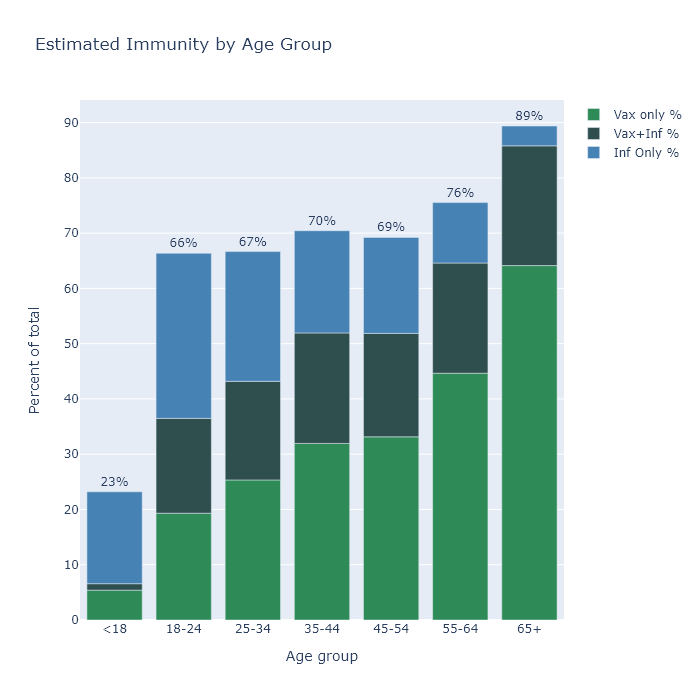
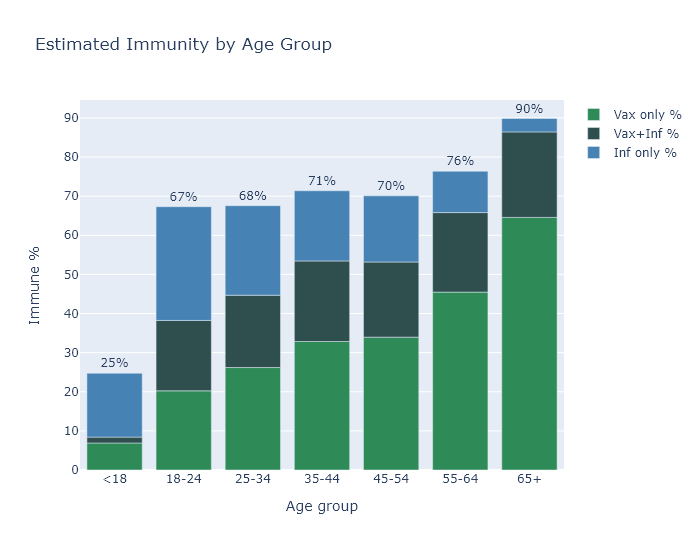
Immunity work

diff --git a/docs/assets/plotly/Immune-Age.html b/docs/assets/plotly/Immune-Age.html
@@ -2,6 +2,6 @@
 <head><meta charset="utf-8" /></head>
 <body>
     <div>                        <script type="text/javascript">window.PlotlyConfig = {MathJaxConfig: 'local'};</script>
-        <script src="https://cdn.plot.ly/plotly-latest.min.js"></script>                <div id="b234c150-d046-4712-80d0-b249274c89f9" class="plotly-graph-div" style="height:700px; width:700px;"></div>            <script type="text/javascript">                                    window.PLOTLYENV=window.PLOTLYENV || {};                                    if (document.getElementById("b234c150-d046-4712-80d0-b249274c89f9")) {                    Plotly.newPlot(                        "b234c150-d046-4712-80d0-b249274c89f9",                        [{"alignmentgroup": "True", "hovertemplate": "=Vax only %<br>Age group=%{x}<br>Percent of total=%{y}<br>Label=%{text}<extra></extra>", "legendgroup": "Vax only %", "marker": {"color": "seagreen"}, "name": "Vax only %", "offsetgroup": "Vax only %", "orientation": "v", "showlegend": true, "text": ["", "", "", "", "", "", ""], "textposition": "outside", "type": "bar", "x": ["<18", "18-24", "25-34", "35-44", "45-54", "55-64", "65+"], "xaxis": "x", "y": [5.399410109253805, 19.325796398050556, 25.34057723824802, 31.944734714497933, 33.14435045495925, 44.65150184121229, 64.12566165815878], "yaxis": "y"}, {"alignmentgroup": "True", "hovertemplate": "=Vax+Inf %<br>Age group=%{x}<br>Percent of total=%{y}<br>Label=%{text}<extra></extra>", "legendgroup": "Vax+Inf %", "marker": {"color": "darkslategray"}, "name": "Vax+Inf %", "offsetgroup": "Vax+Inf %", "orientation": "v", "showlegend": true, "text": ["", "", "", "", "", "", ""], "textposition": "outside", "type": "bar", "x": ["<18", "18-24", "25-34", "35-44", "45-54", "55-64", "65+"], "xaxis": "x", "y": [1.169030372532977, 17.159043871089423, 17.846914998317292, 19.99304495491905, 18.71438408399059, 19.938813500587536, 21.671920770183146], "yaxis": "y"}, {"alignmentgroup": "True", "hovertemplate": "=Inf Only %<br>Age group=%{x}<br>Percent of total=%{y}<br>Label=%{text}<extra></extra>", "legendgroup": "Inf Only %", "marker": {"color": "steelblue"}, "name": "Inf Only %", "offsetgroup": "Inf Only %", "orientation": "v", "showlegend": true, "text": ["23%", "66%", "67%", "70%", "69%", "76%", "89%"], "textposition": "outside", "type": "bar", "x": ["<18", "18-24", "25-34", "35-44", "45-54", "55-64", "65+"], "xaxis": "x", "y": [16.628655025919034, 29.871568691583846, 23.47735291832489, 18.501178483538304, 17.372852232843687, 10.930850775047407, 3.5874398747202427], "yaxis": "y"}],                        {"barmode": "relative", "height": 700, "legend": {"title": {"text": ""}, "tracegroupgap": 0}, "showlegend": true, "template": {"data": {"bar": [{"error_x": {"color": "#2a3f5f"}, "error_y": {"color": "#2a3f5f"}, "marker": {"line": {"color": "#E5ECF6", "width": 0.5}}, "type": "bar"}], "barpolar": [{"marker": {"line": {"color": "#E5ECF6", "width": 0.5}}, "type": "barpolar"}], "carpet": [{"aaxis": {"endlinecolor": "#2a3f5f", "gridcolor": "white", "linecolor": "white", "minorgridcolor": "white", "startlinecolor": "#2a3f5f"}, "baxis": {"endlinecolor": "#2a3f5f", "gridcolor": "white", "linecolor": "white", "minorgridcolor": "white", "startlinecolor": "#2a3f5f"}, "type": "carpet"}], "choropleth": [{"colorbar": {"outlinewidth": 0, "ticks": ""}, "type": "choropleth"}], "contour": [{"colorbar": {"outlinewidth": 0, "ticks": ""}, "colorscale": [[0.0, "#0d0887"], [0.1111111111111111, "#46039f"], [0.2222222222222222, "#7201a8"], [0.3333333333333333, "#9c179e"], [0.4444444444444444, "#bd3786"], [0.5555555555555556, "#d8576b"], [0.6666666666666666, "#ed7953"], [0.7777777777777778, "#fb9f3a"], [0.8888888888888888, "#fdca26"], [1.0, "#f0f921"]], "type": "contour"}], "contourcarpet": [{"colorbar": {"outlinewidth": 0, "ticks": ""}, "type": "contourcarpet"}], "heatmap": [{"colorbar": {"outlinewidth": 0, "ticks": ""}, "colorscale": [[0.0, "#0d0887"], [0.1111111111111111, "#46039f"], [0.2222222222222222, "#7201a8"], [0.3333333333333333, "#9c179e"], [0.4444444444444444, "#bd3786"], [0.5555555555555556, "#d8576b"], [0.6666666666666666, "#ed7953"], [0.7777777777777778, "#fb9f3a"], [0.8888888888888888, "#fdca26"], [1.0, "#f0f921"]], "type": "heatmap"}], "heatmapgl": [{"colorbar": {"outlinewidth": 0, "ticks": ""}, "colorscale": [[0.0, "#0d0887"], [0.1111111111111111, "#46039f"], [0.2222222222222222, "#7201a8"], [0.3333333333333333, "#9c179e"], [0.4444444444444444, "#bd3786"], [0.5555555555555556, "#d8576b"], [0.6666666666666666, "#ed7953"], [0.7777777777777778, "#fb9f3a"], [0.8888888888888888, "#fdca26"], [1.0, "#f0f921"]], "type": "heatmapgl"}], "histogram": [{"marker": {"colorbar": {"outlinewidth": 0, "ticks": ""}}, "type": "histogram"}], "histogram2d": [{"colorbar": {"outlinewidth": 0, "ticks": ""}, "colorscale": [[0.0, "#0d0887"], [0.1111111111111111, "#46039f"], [0.2222222222222222, "#7201a8"], [0.3333333333333333, "#9c179e"], [0.4444444444444444, "#bd3786"], [0.5555555555555556, "#d8576b"], [0.6666666666666666, "#ed7953"], [0.7777777777777778, "#fb9f3a"], [0.8888888888888888, "#fdca26"], [1.0, "#f0f921"]], "type": "histogram2d"}], "histogram2dcontour": [{"colorbar": {"outlinewidth": 0, "ticks": ""}, "colorscale": [[0.0, "#0d0887"], [0.1111111111111111, "#46039f"], [0.2222222222222222, "#7201a8"], [0.3333333333333333, "#9c179e"], [0.4444444444444444, "#bd3786"], [0.5555555555555556, "#d8576b"], [0.6666666666666666, "#ed7953"], [0.7777777777777778, "#fb9f3a"], [0.8888888888888888, "#fdca26"], [1.0, "#f0f921"]], "type": "histogram2dcontour"}], "mesh3d": [{"colorbar": {"outlinewidth": 0, "ticks": ""}, "type": "mesh3d"}], "parcoords": [{"line": {"colorbar": {"outlinewidth": 0, "ticks": ""}}, "type": "parcoords"}], "pie": [{"automargin": true, "type": "pie"}], "scatter": [{"marker": {"colorbar": {"outlinewidth": 0, "ticks": ""}}, "type": "scatter"}], "scatter3d": [{"line": {"colorbar": {"outlinewidth": 0, "ticks": ""}}, "marker": {"colorbar": {"outlinewidth": 0, "ticks": ""}}, "type": "scatter3d"}], "scattercarpet": [{"marker": {"colorbar": {"outlinewidth": 0, "ticks": ""}}, "type": "scattercarpet"}], "scattergeo": [{"marker": {"colorbar": {"outlinewidth": 0, "ticks": ""}}, "type": "scattergeo"}], "scattergl": [{"marker": {"colorbar": {"outlinewidth": 0, "ticks": ""}}, "type": "scattergl"}], "scattermapbox": [{"marker": {"colorbar": {"outlinewidth": 0, "ticks": ""}}, "type": "scattermapbox"}], "scatterpolar": [{"marker": {"colorbar": {"outlinewidth": 0, "ticks": ""}}, "type": "scatterpolar"}], "scatterpolargl": [{"marker": {"colorbar": {"outlinewidth": 0, "ticks": ""}}, "type": "scatterpolargl"}], "scatterternary": [{"marker": {"colorbar": {"outlinewidth": 0, "ticks": ""}}, "type": "scatterternary"}], "surface": [{"colorbar": {"outlinewidth": 0, "ticks": ""}, "colorscale": [[0.0, "#0d0887"], [0.1111111111111111, "#46039f"], [0.2222222222222222, "#7201a8"], [0.3333333333333333, "#9c179e"], [0.4444444444444444, "#bd3786"], [0.5555555555555556, "#d8576b"], [0.6666666666666666, "#ed7953"], [0.7777777777777778, "#fb9f3a"], [0.8888888888888888, "#fdca26"], [1.0, "#f0f921"]], "type": "surface"}], "table": [{"cells": {"fill": {"color": "#EBF0F8"}, "line": {"color": "white"}}, "header": {"fill": {"color": "#C8D4E3"}, "line": {"color": "white"}}, "type": "table"}]}, "layout": {"annotationdefaults": {"arrowcolor": "#2a3f5f", "arrowhead": 0, "arrowwidth": 1}, "autotypenumbers": "strict", "coloraxis": {"colorbar": {"outlinewidth": 0, "ticks": ""}}, "colorscale": {"diverging": [[0, "#8e0152"], [0.1, "#c51b7d"], [0.2, "#de77ae"], [0.3, "#f1b6da"], [0.4, "#fde0ef"], [0.5, "#f7f7f7"], [0.6, "#e6f5d0"], [0.7, "#b8e186"], [0.8, "#7fbc41"], [0.9, "#4d9221"], [1, "#276419"]], "sequential": [[0.0, "#0d0887"], [0.1111111111111111, "#46039f"], [0.2222222222222222, "#7201a8"], [0.3333333333333333, "#9c179e"], [0.4444444444444444, "#bd3786"], [0.5555555555555556, "#d8576b"], [0.6666666666666666, "#ed7953"], [0.7777777777777778, "#fb9f3a"], [0.8888888888888888, "#fdca26"], [1.0, "#f0f921"]], "sequentialminus": [[0.0, "#0d0887"], [0.1111111111111111, "#46039f"], [0.2222222222222222, "#7201a8"], [0.3333333333333333, "#9c179e"], [0.4444444444444444, "#bd3786"], [0.5555555555555556, "#d8576b"], [0.6666666666666666, "#ed7953"], [0.7777777777777778, "#fb9f3a"], [0.8888888888888888, "#fdca26"], [1.0, "#f0f921"]]}, "colorway": ["#636efa", "#EF553B", "#00cc96", "#ab63fa", "#FFA15A", "#19d3f3", "#FF6692", "#B6E880", "#FF97FF", "#FECB52"], "font": {"color": "#2a3f5f"}, "geo": {"bgcolor": "white", "lakecolor": "white", "landcolor": "#E5ECF6", "showlakes": true, "showland": true, "subunitcolor": "white"}, "hoverlabel": {"align": "left"}, "hovermode": "closest", "mapbox": {"style": "light"}, "paper_bgcolor": "white", "plot_bgcolor": "#E5ECF6", "polar": {"angularaxis": {"gridcolor": "white", "linecolor": "white", "ticks": ""}, "bgcolor": "#E5ECF6", "radialaxis": {"gridcolor": "white", "linecolor": "white", "ticks": ""}}, "scene": {"xaxis": {"backgroundcolor": "#E5ECF6", "gridcolor": "white", "gridwidth": 2, "linecolor": "white", "showbackground": true, "ticks": "", "zerolinecolor": "white"}, "yaxis": {"backgroundcolor": "#E5ECF6", "gridcolor": "white", "gridwidth": 2, "linecolor": "white", "showbackground": true, "ticks": "", "zerolinecolor": "white"}, "zaxis": {"backgroundcolor": "#E5ECF6", "gridcolor": "white", "gridwidth": 2, "linecolor": "white", "showbackground": true, "ticks": "", "zerolinecolor": "white"}}, "shapedefaults": {"line": {"color": "#2a3f5f"}}, "ternary": {"aaxis": {"gridcolor": "white", "linecolor": "white", "ticks": ""}, "baxis": {"gridcolor": "white", "linecolor": "white", "ticks": ""}, "bgcolor": "#E5ECF6", "caxis": {"gridcolor": "white", "linecolor": "white", "ticks": ""}}, "title": {"x": 0.05}, "xaxis": {"automargin": true, "gridcolor": "white", "linecolor": "white", "ticks": "", "title": {"standoff": 15}, "zerolinecolor": "white", "zerolinewidth": 2}, "yaxis": {"automargin": true, "gridcolor": "white", "linecolor": "white", "ticks": "", "title": {"standoff": 15}, "zerolinecolor": "white", "zerolinewidth": 2}}}, "title": {"text": "Estimated Immunity by Age Group"}, "width": 700, "xaxis": {"anchor": "y", "domain": [0.0, 1.0], "title": {"text": "Age group"}}, "yaxis": {"anchor": "x", "domain": [0.0, 1.0], "title": {"text": "Percent of total"}}},                        {"responsive": true}                    )                };                            </script>        </div>
+        <script src="https://cdn.plot.ly/plotly-latest.min.js"></script>                <div id="95db07be-aece-472d-8cbe-596c9809e802" class="plotly-graph-div" style="height:700px; width:700px;"></div>            <script type="text/javascript">                                    window.PLOTLYENV=window.PLOTLYENV || {};                                    if (document.getElementById("95db07be-aece-472d-8cbe-596c9809e802")) {                    Plotly.newPlot(                        "95db07be-aece-472d-8cbe-596c9809e802",                        [{"alignmentgroup": "True", "hovertemplate": "=Vax only %<br>Age group=%{x}<br>Immune %=%{y}<br>ImmuneLabel=%{text}<extra></extra>", "legendgroup": "Vax only %", "marker": {"color": "seagreen"}, "name": "Vax only %", "offsetgroup": "Vax only %", "orientation": "v", "showlegend": true, "text": ["", "", "", "", "", "", ""], "textposition": "outside", "type": "bar", "x": ["<18", "18-24", "25-34", "35-44", "45-54", "55-64", "65+"], "xaxis": "x", "y": [6.907183539343292, 20.240021058895717, 26.1978733093339, 32.851289899038214, 33.960706022668155, 45.47216891829578, 64.5728785954162], "yaxis": "y"}, {"alignmentgroup": "True", "hovertemplate": "=Vax+Inf %<br>Age group=%{x}<br>Immune %=%{y}<br>ImmuneLabel=%{text}<extra></extra>", "legendgroup": "Vax+Inf %", "marker": {"color": "darkslategray"}, "name": "Vax+Inf %", "offsetgroup": "Vax+Inf %", "orientation": "v", "showlegend": true, "text": ["", "", "", "", "", "", ""], "textposition": "outside", "type": "bar", "x": ["<18", "18-24", "25-34", "35-44", "45-54", "55-64", "65+"], "xaxis": "x", "y": [1.4983009437703996, 18.000127543287608, 18.48156338267178, 20.590580995632372, 19.207309509279547, 20.33081105191417, 21.849596743395228], "yaxis": "y"}, {"alignmentgroup": "True", "hovertemplate": "=Inf only %<br>Age group=%{x}<br>Immune %=%{y}<br>ImmuneLabel=%{text}<extra></extra>", "legendgroup": "Inf only %", "marker": {"color": "steelblue"}, "name": "Inf only %", "offsetgroup": "Inf only %", "orientation": "v", "showlegend": true, "text": ["25%", "67%", "68%", "71%", "70%", "76%", "90%"], "textposition": "outside", "type": "bar", "x": ["<18", "18-24", "25-34", "35-44", "45-54", "55-64", "65+"], "xaxis": "x", "y": [16.326976668488967, 29.071152776632196, 22.883245019173213, 17.938348944366673, 16.91837492168858, 10.565678835197707, 3.4327116581355996], "yaxis": "y"}],                        {"barmode": "relative", "height": 700, "legend": {"title": {"text": ""}, "tracegroupgap": 0}, "showlegend": true, "template": {"data": {"bar": [{"error_x": {"color": "#2a3f5f"}, "error_y": {"color": "#2a3f5f"}, "marker": {"line": {"color": "#E5ECF6", "width": 0.5}}, "type": "bar"}], "barpolar": [{"marker": {"line": {"color": "#E5ECF6", "width": 0.5}}, "type": "barpolar"}], "carpet": [{"aaxis": {"endlinecolor": "#2a3f5f", "gridcolor": "white", "linecolor": "white", "minorgridcolor": "white", "startlinecolor": "#2a3f5f"}, "baxis": {"endlinecolor": "#2a3f5f", "gridcolor": "white", "linecolor": "white", "minorgridcolor": "white", "startlinecolor": "#2a3f5f"}, "type": "carpet"}], "choropleth": [{"colorbar": {"outlinewidth": 0, "ticks": ""}, "type": "choropleth"}], "contour": [{"colorbar": {"outlinewidth": 0, "ticks": ""}, "colorscale": [[0.0, "#0d0887"], [0.1111111111111111, "#46039f"], [0.2222222222222222, "#7201a8"], [0.3333333333333333, "#9c179e"], [0.4444444444444444, "#bd3786"], [0.5555555555555556, "#d8576b"], [0.6666666666666666, "#ed7953"], [0.7777777777777778, "#fb9f3a"], [0.8888888888888888, "#fdca26"], [1.0, "#f0f921"]], "type": "contour"}], "contourcarpet": [{"colorbar": {"outlinewidth": 0, "ticks": ""}, "type": "contourcarpet"}], "heatmap": [{"colorbar": {"outlinewidth": 0, "ticks": ""}, "colorscale": [[0.0, "#0d0887"], [0.1111111111111111, "#46039f"], [0.2222222222222222, "#7201a8"], [0.3333333333333333, "#9c179e"], [0.4444444444444444, "#bd3786"], [0.5555555555555556, "#d8576b"], [0.6666666666666666, "#ed7953"], [0.7777777777777778, "#fb9f3a"], [0.8888888888888888, "#fdca26"], [1.0, "#f0f921"]], "type": "heatmap"}], "heatmapgl": [{"colorbar": {"outlinewidth": 0, "ticks": ""}, "colorscale": [[0.0, "#0d0887"], [0.1111111111111111, "#46039f"], [0.2222222222222222, "#7201a8"], [0.3333333333333333, "#9c179e"], [0.4444444444444444, "#bd3786"], [0.5555555555555556, "#d8576b"], [0.6666666666666666, "#ed7953"], [0.7777777777777778, "#fb9f3a"], [0.8888888888888888, "#fdca26"], [1.0, "#f0f921"]], "type": "heatmapgl"}], "histogram": [{"marker": {"colorbar": {"outlinewidth": 0, "ticks": ""}}, "type": "histogram"}], "histogram2d": [{"colorbar": {"outlinewidth": 0, "ticks": ""}, "colorscale": [[0.0, "#0d0887"], [0.1111111111111111, "#46039f"], [0.2222222222222222, "#7201a8"], [0.3333333333333333, "#9c179e"], [0.4444444444444444, "#bd3786"], [0.5555555555555556, "#d8576b"], [0.6666666666666666, "#ed7953"], [0.7777777777777778, "#fb9f3a"], [0.8888888888888888, "#fdca26"], [1.0, "#f0f921"]], "type": "histogram2d"}], "histogram2dcontour": [{"colorbar": {"outlinewidth": 0, "ticks": ""}, "colorscale": [[0.0, "#0d0887"], [0.1111111111111111, "#46039f"], [0.2222222222222222, "#7201a8"], [0.3333333333333333, "#9c179e"], [0.4444444444444444, "#bd3786"], [0.5555555555555556, "#d8576b"], [0.6666666666666666, "#ed7953"], [0.7777777777777778, "#fb9f3a"], [0.8888888888888888, "#fdca26"], [1.0, "#f0f921"]], "type": "histogram2dcontour"}], "mesh3d": [{"colorbar": {"outlinewidth": 0, "ticks": ""}, "type": "mesh3d"}], "parcoords": [{"line": {"colorbar": {"outlinewidth": 0, "ticks": ""}}, "type": "parcoords"}], "pie": [{"automargin": true, "type": "pie"}], "scatter": [{"marker": {"colorbar": {"outlinewidth": 0, "ticks": ""}}, "type": "scatter"}], "scatter3d": [{"line": {"colorbar": {"outlinewidth": 0, "ticks": ""}}, "marker": {"colorbar": {"outlinewidth": 0, "ticks": ""}}, "type": "scatter3d"}], "scattercarpet": [{"marker": {"colorbar": {"outlinewidth": 0, "ticks": ""}}, "type": "scattercarpet"}], "scattergeo": [{"marker": {"colorbar": {"outlinewidth": 0, "ticks": ""}}, "type": "scattergeo"}], "scattergl": [{"marker": {"colorbar": {"outlinewidth": 0, "ticks": ""}}, "type": "scattergl"}], "scattermapbox": [{"marker": {"colorbar": {"outlinewidth": 0, "ticks": ""}}, "type": "scattermapbox"}], "scatterpolar": [{"marker": {"colorbar": {"outlinewidth": 0, "ticks": ""}}, "type": "scatterpolar"}], "scatterpolargl": [{"marker": {"colorbar": {"outlinewidth": 0, "ticks": ""}}, "type": "scatterpolargl"}], "scatterternary": [{"marker": {"colorbar": {"outlinewidth": 0, "ticks": ""}}, "type": "scatterternary"}], "surface": [{"colorbar": {"outlinewidth": 0, "ticks": ""}, "colorscale": [[0.0, "#0d0887"], [0.1111111111111111, "#46039f"], [0.2222222222222222, "#7201a8"], [0.3333333333333333, "#9c179e"], [0.4444444444444444, "#bd3786"], [0.5555555555555556, "#d8576b"], [0.6666666666666666, "#ed7953"], [0.7777777777777778, "#fb9f3a"], [0.8888888888888888, "#fdca26"], [1.0, "#f0f921"]], "type": "surface"}], "table": [{"cells": {"fill": {"color": "#EBF0F8"}, "line": {"color": "white"}}, "header": {"fill": {"color": "#C8D4E3"}, "line": {"color": "white"}}, "type": "table"}]}, "layout": {"annotationdefaults": {"arrowcolor": "#2a3f5f", "arrowhead": 0, "arrowwidth": 1}, "autotypenumbers": "strict", "coloraxis": {"colorbar": {"outlinewidth": 0, "ticks": ""}}, "colorscale": {"diverging": [[0, "#8e0152"], [0.1, "#c51b7d"], [0.2, "#de77ae"], [0.3, "#f1b6da"], [0.4, "#fde0ef"], [0.5, "#f7f7f7"], [0.6, "#e6f5d0"], [0.7, "#b8e186"], [0.8, "#7fbc41"], [0.9, "#4d9221"], [1, "#276419"]], "sequential": [[0.0, "#0d0887"], [0.1111111111111111, "#46039f"], [0.2222222222222222, "#7201a8"], [0.3333333333333333, "#9c179e"], [0.4444444444444444, "#bd3786"], [0.5555555555555556, "#d8576b"], [0.6666666666666666, "#ed7953"], [0.7777777777777778, "#fb9f3a"], [0.8888888888888888, "#fdca26"], [1.0, "#f0f921"]], "sequentialminus": [[0.0, "#0d0887"], [0.1111111111111111, "#46039f"], [0.2222222222222222, "#7201a8"], [0.3333333333333333, "#9c179e"], [0.4444444444444444, "#bd3786"], [0.5555555555555556, "#d8576b"], [0.6666666666666666, "#ed7953"], [0.7777777777777778, "#fb9f3a"], [0.8888888888888888, "#fdca26"], [1.0, "#f0f921"]]}, "colorway": ["#636efa", "#EF553B", "#00cc96", "#ab63fa", "#FFA15A", "#19d3f3", "#FF6692", "#B6E880", "#FF97FF", "#FECB52"], "font": {"color": "#2a3f5f"}, "geo": {"bgcolor": "white", "lakecolor": "white", "landcolor": "#E5ECF6", "showlakes": true, "showland": true, "subunitcolor": "white"}, "hoverlabel": {"align": "left"}, "hovermode": "closest", "mapbox": {"style": "light"}, "paper_bgcolor": "white", "plot_bgcolor": "#E5ECF6", "polar": {"angularaxis": {"gridcolor": "white", "linecolor": "white", "ticks": ""}, "bgcolor": "#E5ECF6", "radialaxis": {"gridcolor": "white", "linecolor": "white", "ticks": ""}}, "scene": {"xaxis": {"backgroundcolor": "#E5ECF6", "gridcolor": "white", "gridwidth": 2, "linecolor": "white", "showbackground": true, "ticks": "", "zerolinecolor": "white"}, "yaxis": {"backgroundcolor": "#E5ECF6", "gridcolor": "white", "gridwidth": 2, "linecolor": "white", "showbackground": true, "ticks": "", "zerolinecolor": "white"}, "zaxis": {"backgroundcolor": "#E5ECF6", "gridcolor": "white", "gridwidth": 2, "linecolor": "white", "showbackground": true, "ticks": "", "zerolinecolor": "white"}}, "shapedefaults": {"line": {"color": "#2a3f5f"}}, "ternary": {"aaxis": {"gridcolor": "white", "linecolor": "white", "ticks": ""}, "baxis": {"gridcolor": "white", "linecolor": "white", "ticks": ""}, "bgcolor": "#E5ECF6", "caxis": {"gridcolor": "white", "linecolor": "white", "ticks": ""}}, "title": {"x": 0.05}, "xaxis": {"automargin": true, "gridcolor": "white", "linecolor": "white", "ticks": "", "title": {"standoff": 15}, "zerolinecolor": "white", "zerolinewidth": 2}, "yaxis": {"automargin": true, "gridcolor": "white", "linecolor": "white", "ticks": "", "title": {"standoff": 15}, "zerolinecolor": "white", "zerolinewidth": 2}}}, "title": {"text": "Estimated Immunity by Age Group"}, "width": 700, "xaxis": {"anchor": "y", "domain": [0.0, 1.0], "title": {"text": "Age group"}}, "yaxis": {"anchor": "x", "domain": [0.0, 1.0], "title": {"text": "Immune %"}}},                        {"responsive": true}                    )                };                            </script>        </div>
 </body>
 </html>

diff --git a/BlogNumberImmune.py b/BlogNumberImmune.py
@@ -114,7 +114,7 @@ cdc_factor = vax_cdc.people_vaccinated / age_total['Vaccinated #'].sum()
 age_total['Vax+Inf %'] = age_total['Vaccinated %'] * age_total['Est Infected %']/100
 age_total['Vax only %'] = age_total['Vaccinated %'] - age_total['Vax+Inf %']
 age_total['Inf only %'] = (100-age_total['Vaccinated %']) * age_total['Est Infected %']/100
-age_total['Immune %'] = age_total['Vaccinated %'] + age_total['Inf Only %']
+age_total['Immune %'] = age_total['Vaccinated %'] + age_total['Inf only %']
 
 
 #%% Bar plots for age groups
@@ -122,7 +122,7 @@ age_total['Immune %'] = age_total['Vaccinated %'] + age_total['Inf Only %']
 
 # perc_cols = ['Vaccinated %','Immune %', 'Est Infected %']
 # perc_cols = ['Vaccinated %', 'Est Infected %', 'Immune %']
-perc_cols = ['Vax only %', 'Vax+Inf %', 'Inf Only %']
+perc_cols = ['Vax only %', 'Vax+Inf %', 'Inf only %']
 col_colors = ['seagreen', 'darkslategray', 'steelblue']
 
 # reformat to "long" for use in the bar graph
@@ -137,40 +137,19 @@ def perc_to_text(p):
         t = '{:0.0f}'.format(p) + '%'
     return t
 
-age_long['Label'] = ''
+age_long['ImmuneLabel'] = ''
 age_long.iloc[14:,-1] = age_total['Immune %'].apply(perc_to_text)
-
-
-
-# # horizontal layout
-# fig = px.bar(
-#     age_covid_long, 
-#     y='Age range', 
-#     x='Percentage', 
-#     facet_col='variable', 
-#     facet_col_wrap=2,
-#     color='variable',
-#     color_discrete_sequence=col_colors,
-#     orientation='h',
-#     category_orders={'Age range': age_ranges},
-#     labels={'variable': ''},
-#     title='WI Covid Data by Age Group',
-#     width=700,
-#     height=600,
-#     )
 
 # vertical layout
 fig = px.bar(
     age_long, 
     x='Age group', 
     y='Percentage', 
-    text='Label',
-    # facet_col='variable', 
-    # facet_col_wrap=2,
+    text='ImmuneLabel',
     color='variable',
     color_discrete_sequence=col_colors,
     # barmode='overlay',
-    labels={'variable': '', 'Percentage':'Percent of total'},
+    labels={'variable': '', 'Percentage':'Immune %'},
     title='Estimated Immunity by Age Group',
     width=700,
     height=700,
@@ -191,10 +170,68 @@ fig.update_traces(textposition='outside')
 # other layout
 fig.update_layout(showlegend=True)
 
+
+#%% Alternative bar plot
+perc_cols = ['Vaccinated %', 'Est Infected %']
+col_colors = ['seagreen', 'steelblue']
+
+# reformat to "long" for use in the bar graph
+age_total = age_total.reindex(['<18', '18-24', '25-34', '35-44', '45-54', '55-64', '65+'])
+age_long = age_total.reset_index().melt(id_vars='Age group', value_vars=perc_cols, value_name='Percentage')
+
+# create text labels - strings from rounding each percentage value to nearest whole
+def perc_to_text(p):
+    if p < 2:
+        t = '{:0.1f}'.format(p) + '%'
+    else:
+        t = '{:0.0f}'.format(p) + '%'
+    return t
+
+age_long['ImmuneLabel'] = ''
+age_long.iloc[7:,-1] = age_total['Immune %'].apply(perc_to_text)
+
+# create elevated base for the Infected bar
+age_long['Base'] = 0
+age_long.iloc[7:,-1] = age_total['Vax only %']
+
+# vertical layout
+fig = px.bar(
+    age_long, 
+    x='Age group', 
+    y='Percentage', 
+    text='ImmuneLabel',
+    color='variable',
+    base='Base',
+    color_discrete_sequence=col_colors,
+    barmode='overlay',
+    labels={'variable': '', 'Percentage':'Immune %'},
+    title='Estimated Immunity by Age Group',
+    width=700,
+    height=700,
+    )
+
+
+# take out 'variable=' part of the axis titles
+fig.for_each_annotation(
+    lambda a: a.update(
+        text=a.text.split("=")[-1],
+        font=dict(size=15),
+        )
+    )
+
+fig.update_traces(textposition='outside')
+
+
+# other layout
+fig.update_layout(showlegend=True)
+
+
+#%% Save and display bar plot
+
 save_html='.\\docs\\assets\\plotly\\Immune-Age.html'
 fig.write_html(
     file=save_html,
-    default_height=700,
+    default_height=550,
     default_width=700,
     include_plotlyjs='cdn',
 )
@@ -204,7 +241,7 @@ save_png = '.\\docs\\assets\\Immune-Age.png'
 fig.write_image(
     save_png,
     width=700,
-    height=700,
+    height=550,
     engine='kaleido',
 )
 os.startfile(save_png)
